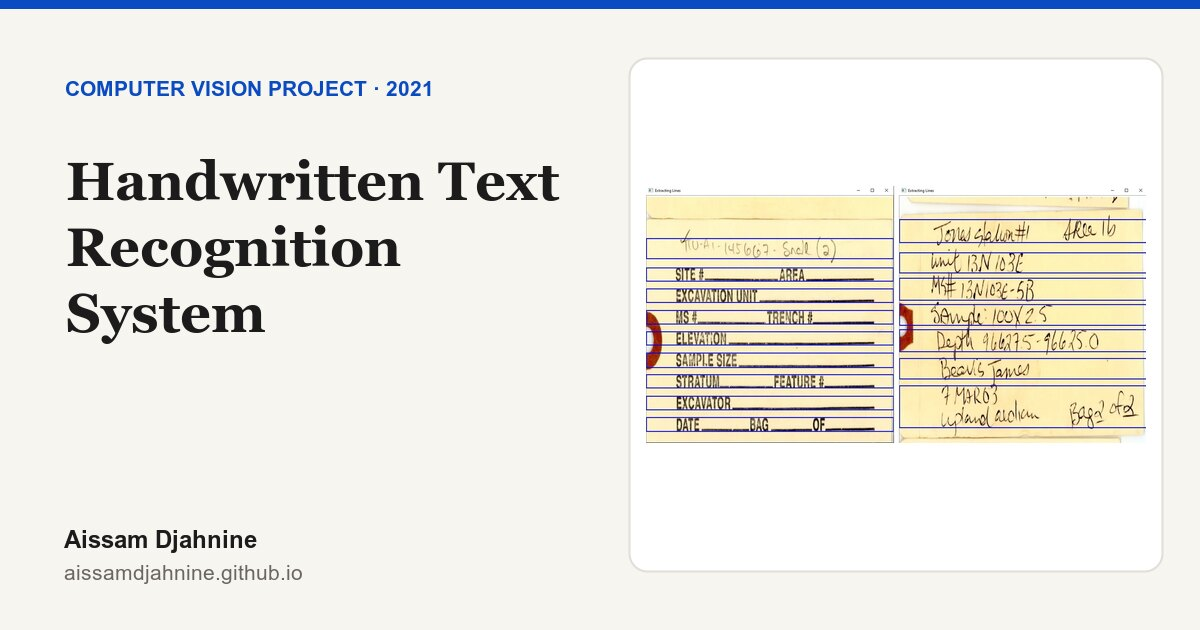
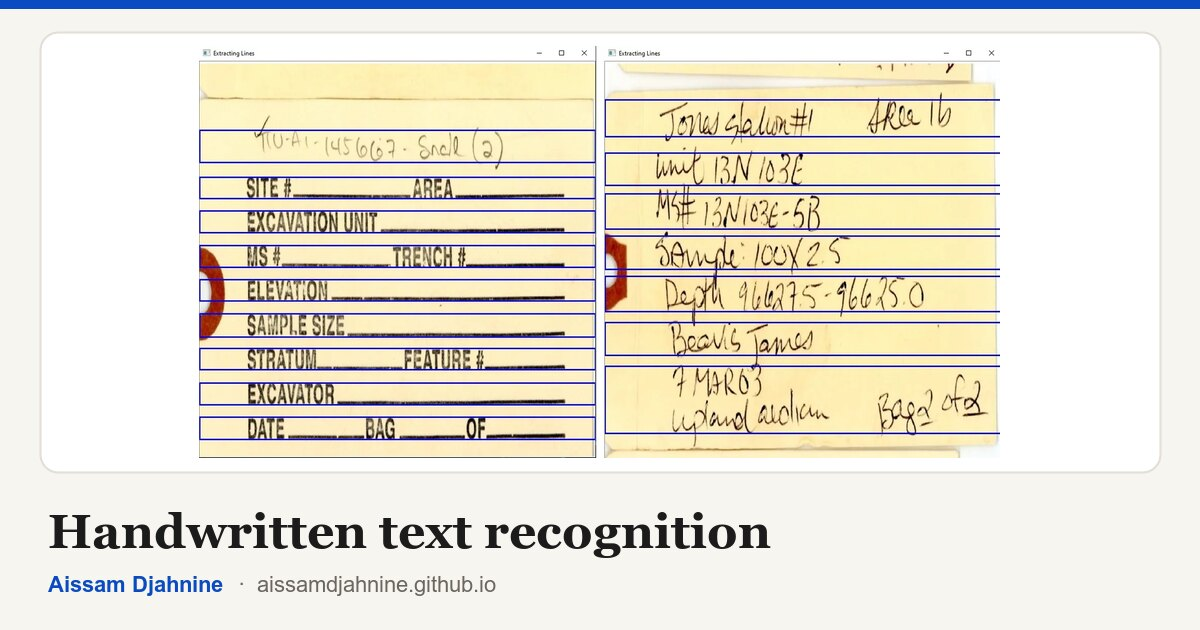
Make link-preview cards figure-first so LinkedIn thumbnails read

diff --git a/projects/pulmonary-embolism.html b/projects/pulmonary-embolism.html
@@ -19,13 +19,13 @@ sitemap: true
 <meta property="og:type" content="article">
 <meta property="og:site_name" content="Aissam Djahnine">
 <meta property="og:url" content="https://aissamdjahnine.github.io/projects/pulmonary-embolism/">
-<meta property="og:image" content="https://aissamdjahnine.github.io/images/og/pulmonary-embolism.jpg">
+<meta property="og:image" content="https://aissamdjahnine.github.io/images/og/pulmonary-embolism.jpg?v=2">
 <meta property="og:image:width" content="1200">
 <meta property="og:image:height" content="630">
 <meta name="twitter:card" content="summary_large_image">
 <meta name="twitter:title" content="Detection and severity quantification of pulmonary embolism with 3D CT data using an automated deep learning-based artificial solution">
 <meta name="twitter:description" content="Automated pulmonary embolism detection and severity quantification on 3D CT pulmonary angiography, first place at the JFR 2022 data challenge.">
-<meta name="twitter:image" content="https://aissamdjahnine.github.io/images/og/pulmonary-embolism.jpg">
+<meta name="twitter:image" content="https://aissamdjahnine.github.io/images/og/pulmonary-embolism.jpg?v=2">
 <link rel="icon" type="image/png" href="/images/favicon.webp">
 <link rel="canonical" href="https://aissamdjahnine.github.io/projects/pulmonary-embolism/">
 <link rel="preconnect" href="https://fonts.googleapis.com">

diff --git a/projects/bert-ct-reports.html b/projects/bert-ct-reports.html
@@ -19,13 +19,13 @@ sitemap: true
 <meta property="og:type" content="article">
 <meta property="og:site_name" content="Aissam Djahnine">
 <meta property="og:url" content="https://aissamdjahnine.github.io/projects/bert-ct-reports/">
-<meta property="og:image" content="https://aissamdjahnine.github.io/images/og/bert-ct-reports.jpg">
+<meta property="og:image" content="https://aissamdjahnine.github.io/images/og/bert-ct-reports.jpg?v=2">
 <meta property="og:image:width" content="1200">
 <meta property="og:image:height" content="630">
 <meta name="twitter:card" content="summary_large_image">
 <meta name="twitter:title" content="BERT-based natural language processing analysis of French CT reports: Application to the measurement of the positivity rate for pulmonary embolism">
 <meta name="twitter:description" content="A BERT-based NLP pipeline for French CT reports that measures the positivity rate of CT exams requested for suspected pulmonary embolism.">
-<meta name="twitter:image" content="https://aissamdjahnine.github.io/images/og/bert-ct-reports.jpg">
+<meta name="twitter:image" content="https://aissamdjahnine.github.io/images/og/bert-ct-reports.jpg?v=2">
 <link rel="icon" type="image/png" href="/images/favicon.webp">
 <link rel="canonical" href="https://aissamdjahnine.github.io/projects/bert-ct-reports/">
 <link rel="preconnect" href="https://fonts.googleapis.com">

diff --git a/projects/contrastive-pretraining.html b/projects/contrastive-pretraining.html
@@ -19,13 +19,13 @@ sitemap: true
 <meta property="og:type" content="article">
 <meta property="og:site_name" content="Aissam Djahnine">
 <meta property="og:url" content="https://aissamdjahnine.github.io/projects/contrastive-pretraining/">
-<meta property="og:image" content="https://aissamdjahnine.github.io/images/og/contrastive-pretraining.jpg">
+<meta property="og:image" content="https://aissamdjahnine.github.io/images/og/contrastive-pretraining.jpg?v=2">
 <meta property="og:image:width" content="1200">
 <meta property="og:image:height" content="630">
 <meta name="twitter:card" content="summary_large_image">
 <meta name="twitter:title" content="Tailored 3D CT contrastive pretraining to improve pulmonary pathology classification">
 <meta name="twitter:description" content="This work explores contrastive pretraining for pulmonary pathology classification using three-dimensional chest CT patches.">
-<meta name="twitter:image" content="https://aissamdjahnine.github.io/images/og/contrastive-pretraining.jpg">
+<meta name="twitter:image" content="https://aissamdjahnine.github.io/images/og/contrastive-pretraining.jpg?v=2">
 <link rel="icon" type="image/png" href="/images/favicon.webp">
 <link rel="canonical" href="https://aissamdjahnine.github.io/projects/contrastive-pretraining/">
 <link rel="preconnect" href="https://fonts.googleapis.com">

diff --git a/projects/weakly-supervised-ct.html b/projects/weakly-supervised-ct.html
@@ -19,13 +19,13 @@ sitemap: true
 <meta property="og:type" content="article">
 <meta property="og:site_name" content="Aissam Djahnine">
 <meta property="og:url" content="https://aissamdjahnine.github.io/projects/weakly-supervised-ct/">
-<meta property="og:image" content="https://aissamdjahnine.github.io/images/og/weakly-supervised-ct.jpg">
+<meta property="og:image" content="https://aissamdjahnine.github.io/images/og/weakly-supervised-ct.jpg?v=2">
 <meta property="og:image:width" content="1200">
 <meta property="og:image:height" content="630">
 <meta name="twitter:card" content="summary_large_image">
 <meta name="twitter:title" content="Weakly-Supervised learning based Pathology Detection and Localization in 3D Chest Scans">
 <meta name="twitter:description" content="Detecting and localizing multiple pathologies in 3D chest CT with SimCLR-pretrained patch classification and few labelled patches.">
-<meta name="twitter:image" content="https://aissamdjahnine.github.io/images/og/weakly-supervised-ct.jpg">
+<meta name="twitter:image" content="https://aissamdjahnine.github.io/images/og/weakly-supervised-ct.jpg?v=2">
 <link rel="icon" type="image/png" href="/images/favicon.webp">
 <link rel="canonical" href="https://aissamdjahnine.github.io/projects/weakly-supervised-ct/">
 <link rel="preconnect" href="https://fonts.googleapis.com">

diff --git a/projects/handwritten-recognition.html b/projects/handwritten-recognition.html
@@ -19,13 +19,13 @@ sitemap: true
 <meta property="og:type" content="article">
 <meta property="og:site_name" content="Aissam Djahnine">
 <meta property="og:url" content="https://aissamdjahnine.github.io/projects/handwritten-recognition/">
-<meta property="og:image" content="https://aissamdjahnine.github.io/images/og/handwritten-recognition.jpg">
+<meta property="og:image" content="https://aissamdjahnine.github.io/images/og/handwritten-recognition.jpg?v=2">
 <meta property="og:image:width" content="1200">
 <meta property="og:image:height" content="630">
 <meta name="twitter:card" content="summary_large_image">
 <meta name="twitter:title" content="Handwritten Text Recognition System">
 <meta name="twitter:description" content="Transcribing scanned handwritten museum labels with OpenCV line and character detection, a YOLO detector and a Keras character classifier.">
-<meta name="twitter:image" content="https://aissamdjahnine.github.io/images/og/handwritten-recognition.jpg">
+<meta name="twitter:image" content="https://aissamdjahnine.github.io/images/og/handwritten-recognition.jpg?v=2">
 <link rel="icon" type="image/png" href="/images/favicon.webp">
 <link rel="canonical" href="https://aissamdjahnine.github.io/projects/handwritten-recognition/">
 <link rel="preconnect" href="https://fonts.googleapis.com">

diff --git a/projects/muscle-segmentation.html b/projects/muscle-segmentation.html
@@ -19,13 +19,13 @@ sitemap: true
 <meta property="og:type" content="article">
 <meta property="og:site_name" content="Aissam Djahnine">
 <meta property="og:url" content="https://aissamdjahnine.github.io/projects/muscle-segmentation/">
-<meta property="og:image" content="https://aissamdjahnine.github.io/images/og/muscle-segmentation.jpg">
+<meta property="og:image" content="https://aissamdjahnine.github.io/images/og/muscle-segmentation.jpg?v=2">
 <meta property="og:image:width" content="1200">
 <meta property="og:image:height" content="630">
 <meta name="twitter:card" content="summary_large_image">
 <meta name="twitter:title" content="Segmentation and Measurement of Skeletal Muscle Areas on CT Scans">
 <meta name="twitter:description" content="Deep learning segmentation of skeletal muscle on CT at the L3, L2 and L1 vertebrae levels to improve sarcopenia estimation.">
-<meta name="twitter:image" content="https://aissamdjahnine.github.io/images/og/muscle-segmentation.jpg">
+<meta name="twitter:image" content="https://aissamdjahnine.github.io/images/og/muscle-segmentation.jpg?v=2">
 <link rel="icon" type="image/png" href="/images/favicon.webp">
 <link rel="canonical" href="https://aissamdjahnine.github.io/projects/muscle-segmentation/">
 <link rel="preconnect" href="https://fonts.googleapis.com">

diff --git a/projects/ct-3dflow.html b/projects/ct-3dflow.html
@@ -19,13 +19,13 @@ sitemap: true
 <meta property="og:type" content="article">
 <meta property="og:site_name" content="Aissam Djahnine">
 <meta property="og:url" content="https://aissamdjahnine.github.io/projects/ct-3dflow/">
-<meta property="og:image" content="https://aissamdjahnine.github.io/images/og/ct-3dflow.jpg">
+<meta property="og:image" content="https://aissamdjahnine.github.io/images/og/ct-3dflow.jpg?v=2">
 <meta property="og:image:width" content="1200">
 <meta property="og:image:height" content="630">
 <meta name="twitter:card" content="summary_large_image">
 <meta name="twitter:title" content="CT-3DFlow: Leveraging 3D Normalizing Flows for Unsupervised Detection of Pathological Pulmonary CT Scans">
 <meta name="twitter:description" content="CT-3DFlow: a 3D normalizing flow trained on healthy lung CT patches for unsupervised, patient-level pulmonary pathology detection.">
-<meta name="twitter:image" content="https://aissamdjahnine.github.io/images/og/ct-3dflow.jpg">
+<meta name="twitter:image" content="https://aissamdjahnine.github.io/images/og/ct-3dflow.jpg?v=2">
 <link rel="icon" type="image/png" href="/images/favicon.webp">
 <link rel="canonical" href="https://aissamdjahnine.github.io/projects/ct-3dflow/">
 <link rel="preconnect" href="https://fonts.googleapis.com">

diff --git a/projects/video-inpainting.html b/projects/video-inpainting.html
@@ -19,13 +19,13 @@ sitemap: true
 <meta property="og:type" content="article">
 <meta property="og:site_name" content="Aissam Djahnine">
 <meta property="og:url" content="https://aissamdjahnine.github.io/projects/video-inpainting/">
-<meta property="og:image" content="https://aissamdjahnine.github.io/images/og/video-inpainting.jpg">
+<meta property="og:image" content="https://aissamdjahnine.github.io/images/og/video-inpainting.jpg?v=2">
 <meta property="og:image:width" content="1200">
 <meta property="og:image:height" content="630">
 <meta name="twitter:card" content="summary_large_image">
 <meta name="twitter:title" content="Unsupervised Spatiotemporal Data Inpainting">
 <meta name="twitter:description" content="Reimplementation of unsupervised spatiotemporal inpainting with frame and sequence GAN discriminators, on geophysical data and natural videos.">
-<meta name="twitter:image" content="https://aissamdjahnine.github.io/images/og/video-inpainting.jpg">
+<meta name="twitter:image" content="https://aissamdjahnine.github.io/images/og/video-inpainting.jpg?v=2">
 <link rel="icon" type="image/png" href="/images/favicon.webp">
 <link rel="canonical" href="https://aissamdjahnine.github.io/projects/video-inpainting/">
 <link rel="preconnect" href="https://fonts.googleapis.com">

diff --git a/projects/ecapri.html b/projects/ecapri.html
@@ -19,13 +19,13 @@ sitemap: true
 <meta property="og:type" content="article">
 <meta property="og:site_name" content="Aissam Djahnine">
 <meta property="og:url" content="https://aissamdjahnine.github.io/projects/ecapri/">
-<meta property="og:image" content="https://aissamdjahnine.github.io/images/og/ecapri.jpg">
+<meta property="og:image" content="https://aissamdjahnine.github.io/images/og/ecapri.jpg?v=2">
 <meta property="og:image:width" content="1200">
 <meta property="og:image:height" content="630">
 <meta name="twitter:card" content="summary_large_image">
 <meta name="twitter:title" content="eCAPRI: a novel tool combining clinical and imaging data for post-TAVI mortality prediction">
 <meta name="twitter:description" content="eCAPRI combines automated thoracic aortic calcium measurement and CT imaging biomarkers with clinical data to predict one-year mortality after TAVI.">
-<meta name="twitter:image" content="https://aissamdjahnine.github.io/images/og/ecapri.jpg">
+<meta name="twitter:image" content="https://aissamdjahnine.github.io/images/og/ecapri.jpg?v=2">
 <link rel="icon" type="image/png" href="/images/favicon.webp">
 <link rel="canonical" href="https://aissamdjahnine.github.io/projects/ecapri/">
 <link rel="preconnect" href="https://fonts.googleapis.com">

diff --git a/projects/cyclegan.html b/projects/cyclegan.html
@@ -19,13 +19,13 @@ sitemap: true
 <meta property="og:type" content="article">
 <meta property="og:site_name" content="Aissam Djahnine">
 <meta property="og:url" content="https://aissamdjahnine.github.io/projects/cyclegan/">
-<meta property="og:image" content="https://aissamdjahnine.github.io/images/og/cyclegan.jpg">
+<meta property="og:image" content="https://aissamdjahnine.github.io/images/og/cyclegan.jpg?v=2">
 <meta property="og:image:width" content="1200">
 <meta property="og:image:height" content="630">
 <meta name="twitter:card" content="summary_large_image">
 <meta name="twitter:title" content="Automated Segmentation of Cell Images Using Cycle-Consistent Generative Adversarial Networks">
 <meta name="twitter:description" content="Automated segmentation of retinal pigment epithelium cell images with cycle-consistent GANs, trained without paired image-mask data.">
-<meta name="twitter:image" content="https://aissamdjahnine.github.io/images/og/cyclegan.jpg">
+<meta name="twitter:image" content="https://aissamdjahnine.github.io/images/og/cyclegan.jpg?v=2">
 <link rel="icon" type="image/png" href="/images/favicon.webp">
 <link rel="canonical" href="https://aissamdjahnine.github.io/projects/cyclegan/">
 <link rel="preconnect" href="https://fonts.googleapis.com">

diff --git a/projects/nas-darts.html b/projects/nas-darts.html
@@ -19,13 +19,13 @@ sitemap: true
 <meta property="og:type" content="article">
 <meta property="og:site_name" content="Aissam Djahnine">
 <meta property="og:url" content="https://aissamdjahnine.github.io/projects/nas-darts/">
-<meta property="og:image" content="https://aissamdjahnine.github.io/images/og/nas-darts.jpg">
+<meta property="og:image" content="https://aissamdjahnine.github.io/images/og/nas-darts.jpg?v=2">
 <meta property="og:image:width" content="1200">
 <meta property="og:image:height" content="630">
 <meta name="twitter:card" content="summary_large_image">
 <meta name="twitter:title" content="Investigation of automatic search methods for neural network hyperparameters (Neural Architecture Search)">
 <meta name="twitter:description" content="Gradient-based neural architecture search (DARTS, PC-DARTS) for mammogram classification at GE Healthcare.">
-<meta name="twitter:image" content="https://aissamdjahnine.github.io/images/og/nas-darts.jpg">
+<meta name="twitter:image" content="https://aissamdjahnine.github.io/images/og/nas-darts.jpg?v=2">
 <link rel="icon" type="image/png" href="/images/favicon.webp">
 <link rel="canonical" href="https://aissamdjahnine.github.io/projects/nas-darts/">
 <link rel="preconnect" href="https://fonts.googleapis.com">

diff --git a/projects/phd-thesis.html b/projects/phd-thesis.html
@@ -19,13 +19,13 @@ sitemap: true
 <meta property="og:type" content="article">
 <meta property="og:site_name" content="Aissam Djahnine">
 <meta property="og:url" content="https://aissamdjahnine.github.io/projects/phd-thesis/">
-<meta property="og:image" content="https://aissamdjahnine.github.io/images/og/phd-thesis.jpg">
+<meta property="og:image" content="https://aissamdjahnine.github.io/images/og/phd-thesis.jpg?v=2">
 <meta property="og:image:width" content="1200">
 <meta property="og:image:height" content="630">
 <meta name="twitter:card" content="summary_large_image">
 <meta name="twitter:title" content="Automatic Detection of Pathologies in Conventional Scanner Data">
 <meta name="twitter:description" content="Overview of the PhD thesis: detecting pulmonary anomalies in chest CT with supervised, weakly supervised and unsupervised deep learning.">
-<meta name="twitter:image" content="https://aissamdjahnine.github.io/images/og/phd-thesis.jpg">
+<meta name="twitter:image" content="https://aissamdjahnine.github.io/images/og/phd-thesis.jpg?v=2">
 <link rel="icon" type="image/png" href="/images/favicon.webp">
 <link rel="canonical" href="https://aissamdjahnine.github.io/projects/phd-thesis/">
 <link rel="preconnect" href="https://fonts.googleapis.com">
